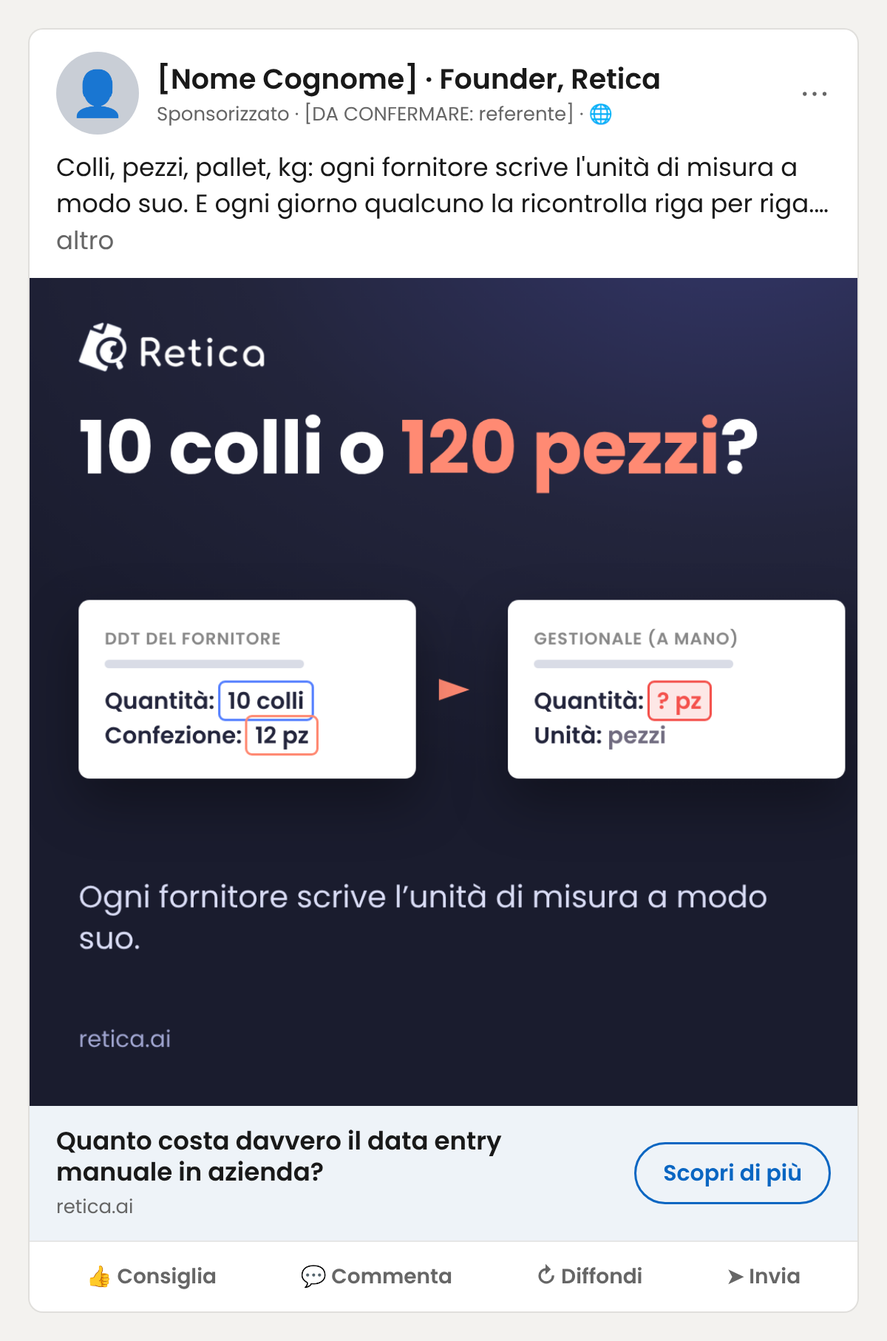
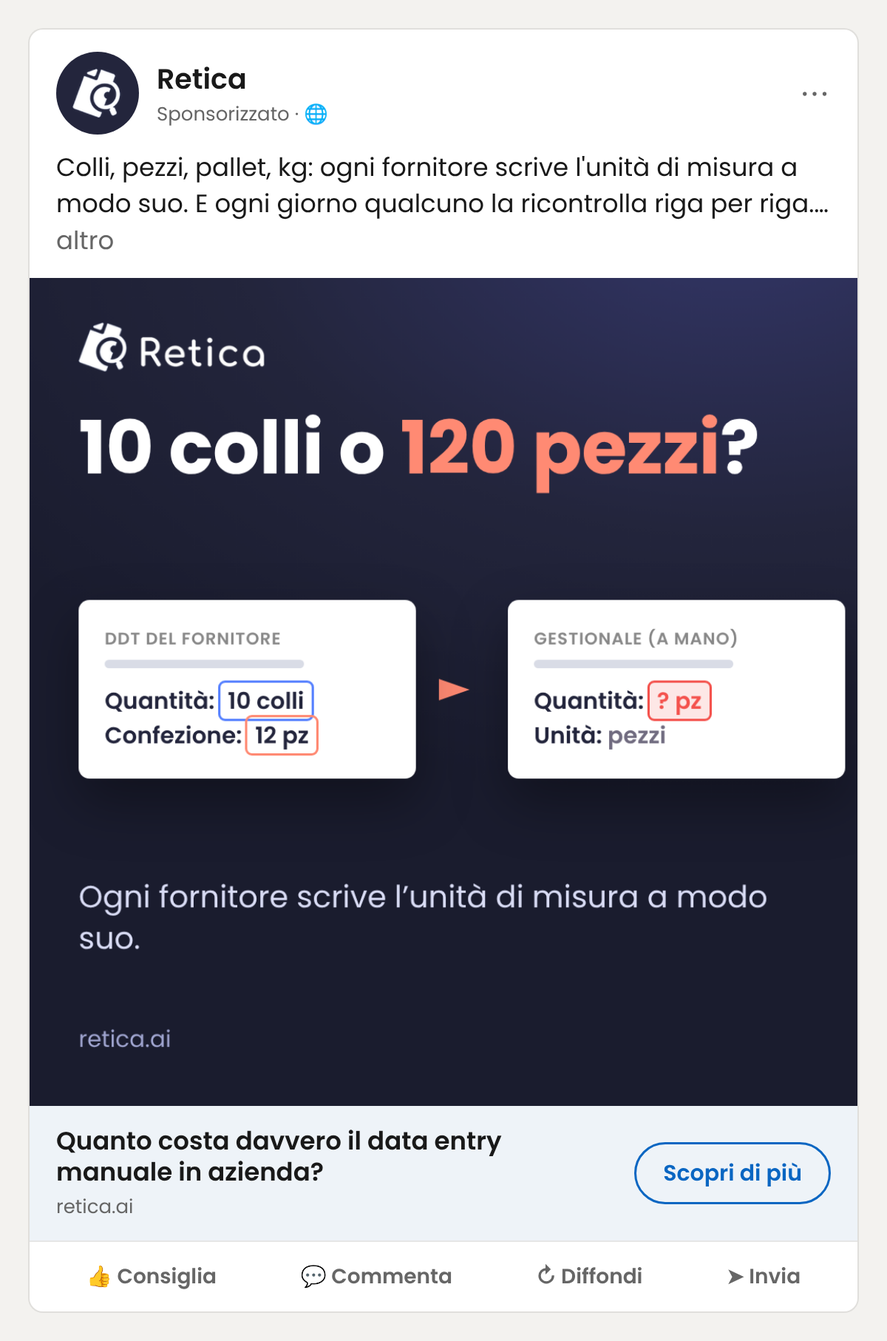
Annunci sempre pubblicati dalla pagina Retica: via il post del fondatore e il Thought Leader Ad
Claude-Session: https://claude.ai/code/session_01A3YkmvjrFpH2K6zMCLryrZ

Changed region(s): [[0.185, 0.0309, 0.74, 0.0926], [0.0617, 0.0309, 0.1542, 0.1235]]

diff --git a/tools/claude-deck/project/slides/strategia.html b/tools/claude-deck/project/slides/strategia.html
@@ -4,10 +4,10 @@
 <h2><b>Concentrati</b> sulla demo.</h2>
 <p class="sub" style="width:1300px; margin-bottom:36px;">Con 2.000 € al mese niente video e niente contenuti da scaricare: si passa dalla fiducia alla richiesta di demo.</p>
 <div class="row" style="gap:28px;">
-<div class="card grow" style="width:520px;"><p class="n">01</p><h3>Farsi notare</h3><p class="p" style="font-size:26px; margin-bottom:22px;">Un post del fondatore e un annuncio sui DDT, per chi lavora in logistica e ancora non ci conosce.</p><div class="row" style="gap:0;"><p class="chip ok">500 € al mese</p></div></div>
+<div class="card grow" style="width:520px;"><p class="n">01</p><h3>Farsi notare</h3><p class="p" style="font-size:26px; margin-bottom:22px;">Due annunci della pagina Retica, sui DDT e sulle unità di misura, per chi lavora in logistica e ancora non ci conosce.</p><div class="row" style="gap:0;"><p class="chip ok">500 € al mese</p></div></div>
 <div class="card grow" style="width:520px;"><p class="n">02</p><h3>Convincere</h3><p class="p" style="font-size:26px; margin-bottom:22px;">Un carosello da leggere nel feed e come Retica si collega al gestionale, per chi ci ha già visti o è venuto sul sito.</p><div class="row" style="gap:0;"><p class="chip ok">300 € al mese</p></div></div>
 <div class="card hl grow" style="width:520px;"><p class="n">03</p><h3>Chiedere la demo</h3><p class="p" style="font-size:26px; margin-bottom:22px;">Annunci con un modulo di due domande e le testimonianze di Carraro e Le Messaggerie Nazionali.</p><div class="row" style="gap:0;"><p class="chip ok">1.200 € al mese</p></div></div>
 </div>
 <p class="fn">Ripartizione: 25% notorietà, 15% considerazione, 60% richiesta di demo. Stima Propaganda Adv</p>
-<aside>Con un budget di 2.000 euro al mese si concentra tutto: un solo pubblico (logistica), pochi annunci, nessun video e nessun contenuto da scaricare. Il 60 per cento va dove nasce la richiesta di demo. Il 25 per cento serve a farsi notare con un post del fondatore (i Thought Leader Ads hanno un costo per clic molto più basso degli altri formati secondo ZenABM) e un annuncio sui DDT. Il 15 per cento va in retargeting: chi ha già visto un annuncio o è stato sul sito vede un carosello da leggere nel feed e l'annuncio sull'integrazione con il gestionale, senza scaricare nulla. I pubblici caldi all'inizio sono piccoli: LinkedIn richiede almeno 300 persone per usarli, quindi il retargeting parte solo quando ci sono. Il 2.000 va confermato: al mese o in totale?</aside>
+<aside>Con un budget di 2.000 euro al mese si concentra tutto: un solo pubblico (logistica), pochi annunci, nessun video e nessun contenuto da scaricare. Il 60 per cento va dove nasce la richiesta di demo. Il 25 per cento serve a farsi notare con due annunci pubblicati sempre dalla pagina LinkedIn di Retica, uno sui DDT e uno sulle unità di misura. Il 15 per cento va in retargeting: chi ha già visto un annuncio o è stato sul sito vede un carosello da leggere nel feed e l'annuncio sull'integrazione con il gestionale, senza scaricare nulla. I pubblici caldi all'inizio sono piccoli: LinkedIn richiede almeno 300 persone per usarli, quindi il retargeting parte solo quando ci sono. Il 2.000 va confermato: al mese o in totale?</aside>
 </section>

diff --git a/tools/mockup/html/A02_feed.html b/tools/mockup/html/A02_feed.html
@@ -30,7 +30,7 @@ body{font-family:P,sans-serif;color:#fff;-webkit-font-smoothing:antialiased}
 .dots{display:flex;gap:10px}.dots i{width:14px;height:14px;border-radius:50%;background:var(--coral)}
 body{background:#F3F2EF;color:#191919}</style></head><body><div style="width:1200px;padding:40px;background:#F3F2EF">
   <div style="width:1120px;background:#fff;border-radius:18px;overflow:hidden;box-shadow:0 0 0 2px #E0DFDC">
-   <div style="display:flex;align-items:center;gap:24px;padding:30px 36px 20px"><div style="width:112px;height:112px;border-radius:50%;background:#C9CED6;display:flex;align-items:center;justify-content:center;font-size:60px;color:#fff">👤</div><div style="flex:1"><div style="font-size:38px;font-weight:600">[Nome Cognome] · Founder, Retica</div><div style="font-size:26px;color:#666">Sponsorizzato · [DA CONFERMARE: referente] · 🌐</div></div><div style="font-size:44px;color:#666;letter-spacing:4px">···</div></div>
+   <div style="display:flex;align-items:center;gap:24px;padding:30px 36px 20px"><img src="file:///home/user/outputclaude/assets/retica/avatar_retica_derivato.png" style="width:112px;height:112px;border-radius:50%"><div style="flex:1"><div style="font-size:38px;font-weight:600">Retica</div><div style="font-size:26px;color:#666">Sponsorizzato · 🌐</div></div><div style="font-size:44px;color:#666;letter-spacing:4px">···</div></div>
    <div style="padding:0 36px 26px;font-size:34px;line-height:1.45">Colli, pezzi, pallet, kg: ogni fornitore scrive l'unità di misura a modo suo. E ogni giorno qualcuno la ricontrolla riga per riga.… <span style="color:#666">altro</span></div>
    <img src="file:///home/user/outputclaude/output/mockup/A02_quote_1x1.png" style="display:block;width:1120px;height:1120px"><div style="background:#EEF3F8;padding:26px 36px;display:flex;align-items:center;justify-content:space-between;gap:24px"><div><div style="font-size:34px;font-weight:600;color:#191919;line-height:1.25;max-width:700px">Quanto costa davvero il data entry manuale in azienda?</div><div style="font-size:26px;color:#666;margin-top:6px">retica.ai</div></div><div style="border:3px solid #0A66C2;color:#0A66C2;border-radius:999px;padding:16px 36px;font-size:30px;font-weight:600;white-space:nowrap">Scopri di più</div></div>
    <div style="display:flex;justify-content:space-around;padding:26px 20px;font-size:28px;color:#666;font-weight:600;border-top:2px solid #E6E6E6"><span>👍 Consiglia</span><span>💬 Commenta</span><span>↻ Diffondi</span><span>➤ Invia</span></div>

diff --git a/tools/claude-deck/project/slides/roadmap.html b/tools/claude-deck/project/slides/roadmap.html
@@ -7,7 +7,7 @@
 <div class="col grow" style="gap:32px; width:1160px;">
 <div class="row" style="gap:32px;">
 <div class="card grow" style="width:564px; padding:32px 36px;"><p class="lab">SETTIMANE 1–2</p><h3 style="font-size:34px; margin-bottom:8px;">Prepariamo tutto</h3><p class="p" style="font-size:26px;">Tracciamento, pubblici, moduli, CRM e pagina sul sito.</p></div>
-<div class="card grow" style="width:564px; padding:32px 36px;"><p class="lab">SETTIMANE 3–4</p><h3 style="font-size:34px; margin-bottom:8px;">Partiamo</h3><p class="p" style="font-size:26px;">Post del fondatore e annuncio sui DDT, poi la richiesta di demo.</p></div>
+<div class="card grow" style="width:564px; padding:32px 36px;"><p class="lab">SETTIMANE 3–4</p><h3 style="font-size:34px; margin-bottom:8px;">Partiamo</h3><p class="p" style="font-size:26px;">Due annunci di notorietà, poi la richiesta di demo.</p></div>
 </div>
 <div class="row" style="gap:32px;">
 <div class="card grow" style="width:564px; padding:32px 36px;"><p class="lab">SETTIMANE 5–8</p><h3 style="font-size:34px; margin-bottom:8px;">Rinforziamo</h3><p class="p" style="font-size:26px;">Retargeting per chi ci ha già visti. Due messaggi a confronto.</p></div>
@@ -16,5 +16,5 @@
 </div>
 </div>
 <p class="fn">I tempi dipendono da accessi e materiali di Retica</p>
-<aside>Le prime due settimane servono a preparare: codice di tracciamento di LinkedIn sul sito, pubblici, moduli di contatto e collegamento al CRM. Poi si parte con il post del fondatore e l'annuncio sui DDT, insieme alla richiesta di demo. Dalla quinta settimana, quando i pubblici sono abbastanza grandi, si attiva il retargeting per chi ci ha già visti e si mettono a confronto due messaggi alla volta. Dalla nona si sposta il budget dove arrivano le demo e si valuta se ha senso il video. Report mensile con il costo per demo.</aside>
+<aside>Le prime due settimane servono a preparare: codice di tracciamento di LinkedIn sul sito, pubblici, moduli di contatto e collegamento al CRM. Poi si parte con i due annunci di notorietà (DDT e unità di misura), insieme alla richiesta di demo. Dalla quinta settimana, quando i pubblici sono abbastanza grandi, si attiva il retargeting per chi ci ha già visti e si mettono a confronto due messaggi alla volta. Dalla nona si sposta il budget dove arrivano le demo e si valuta se ha senso il video. Report mensile con il costo per demo.</aside>
 </section>

diff --git a/tools/claude-deck/project/slides/ads-notare.html b/tools/claude-deck/project/slides/ads-notare.html
@@ -4,12 +4,12 @@
 <h2 style="font-size:80px;"><b>Prima</b> ci notano.</h2>
 <div class="row" style="gap:40px;">
 <img src="/_blob/770445a9c08d51132e218f9824270999" alt="Annuncio sui DDT in cornice LinkedIn" style="width:352px; height:600px; object-fit:contain;">
-<img src="/_blob/a34a728823aabbcc833e8021171f533b" alt="Post del fondatore sulle unità di misura in cornice LinkedIn" style="width:397px; height:600px; object-fit:contain;">
+<img src="/_blob/5e99c88534d3d6f7dce98179474eb84b" alt="Annuncio di Retica sulle unità di misura in cornice LinkedIn" style="width:397px; height:600px; object-fit:contain;">
 <div class="col grow" style="gap:30px; width:800px; padding-top:20px;">
 <div class="card"><p class="lab">ANNUNCIO · IMMAGINE</p><p class="t1" style="font-size:34px; font-weight:600; line-height:1.3;">«Quante righe di DDT ricopia il tuo team ogni giorno?»</p></div>
-<div class="card"><p class="lab">POST DEL FONDATORE</p><p class="t1" style="font-size:34px; font-weight:600; line-height:1.3;">«10 colli o 120 pezzi? Ogni fornitore scrive l’unità di misura a modo suo.»</p></div>
+<div class="card"><p class="lab">ANNUNCIO · UNITÀ DI MISURA</p><p class="t1" style="font-size:34px; font-weight:600; line-height:1.3;">«10 colli o 120 pezzi? Ogni fornitore scrive l’unità di misura a modo suo.»</p></div>
 <p class="p">Parliamo del problema, non del prodotto.</p>
 </div>
 </div>
-<aside>Primo gruppo: ci fanno notare. Un annuncio a immagine parte dalla domanda sulle righe di DDT (niente video, per ora). Un post a nome di un fondatore o referente di Retica parla del problema delle unità di misura. Sono messaggi che parlano del problema, non del prodotto. Il post richiede una persona reale (da confermare) e il suo consenso. L'esempio 10 colli da 12 pezzi è solo un calcolo illustrativo.</aside>
+<aside>Primo gruppo: ci fanno notare. Due annunci, entrambi pubblicati dalla pagina LinkedIn di Retica: uno parte dalla domanda sulle righe di DDT, l'altro dal problema delle unità di misura (niente video, per ora). Sono messaggi che parlano del problema, non del prodotto. L'esempio 10 colli da 12 pezzi è solo un calcolo illustrativo.</</aside>
 </section>

diff --git a/tools/claude-deck/project/slides/piano.html b/tools/claude-deck/project/slides/piano.html
@@ -4,9 +4,9 @@
 <h2><b>Tre mosse,</b> una demo.</h2>
 <p class="sub" style="width:1200px; margin-bottom:48px;">Accompagniamo chi lavora in logistica dal primo sguardo fino alla richiesta di demo.</p>
 <div class="row">
-<div class="card grow"><p class="n">01</p><h3>Ci notano</h3><p class="p">Un post del fondatore e un annuncio parlano del loro problema di tutti i giorni: riscrivere i DDT a mano.</p></div>
+<div class="card grow"><p class="n">01</p><h3>Ci notano</h3><p class="p">Due annunci di Retica parlano del loro problema di tutti i giorni: riscrivere i DDT a mano.</p></div>
 <div class="card grow"><p class="n">02</p><h3>Ci contattano</h3><p class="p">Proponiamo di risolvere il loro problema in modo semplice</p></div>
 <div class="card grow"><p class="n">03</p><h3>Ci chiamano</h3><p class="p">Un modulo di due domande, una demo prenotata e una risposta entro 24 ore.</p></div>
 </div>
-<aside>Il piano in tre mosse. Prima ci notano: un post del fondatore e un annuncio che parlano del loro problema, non del prodotto. Poi proponiamo di risolverlo in modo semplice, con casi reali di clienti. Infine chiedono la demo. Niente video e niente contenuti da scaricare: con 2.000 euro al mese si va dritti alla fiducia e alla richiesta di demo.</aside>
+<aside>Il piano in tre mosse. Prima ci notano: due annunci pubblicati da Retica che parlano del loro problema, non del prodotto. Poi proponiamo di risolverlo in modo semplice, con casi reali di clienti. Infine chiedono la demo. Niente video e niente contenuti da scaricare: con 2.000 euro al mese si va dritti alla fiducia e alla richiesta di demo.</aside>
 </section>

diff --git a/tools/claude-deck/project/slides/servono.html b/tools/claude-deck/project/slides/servono.html
@@ -3,7 +3,7 @@
 <div class="kick"><x-shape kind="rect" style="width:56px; height:4px; background:#233DFF;"></x-shape><p>10 · COSA CI SERVE</p></div>
 <h2 style="font-size:80px;"><b>Sei cose</b> da Retica per partire.</h2>
 <div class="row" style="gap:28px; margin-bottom:28px;">
-<div class="card grow" style="width:520px;"><p class="n">01</p><p class="t1" style="font-size:30px; font-weight:600; line-height:1.3;">Chi firma il post del fondatore, e il suo ok</p></div>
+<div class="card grow" style="width:520px;"><p class="n">01</p><p class="t1" style="font-size:30px; font-weight:600; line-height:1.3;">Chi approva testi e immagini degli annunci di Retica</p></div>
 <div class="card grow" style="width:520px;"><p class="n">02</p><p class="t1" style="font-size:30px; font-weight:600; line-height:1.3;">L’accesso a LinkedIn e al vostro CRM</p></div>
 <div class="card grow" style="width:520px;"><p class="n">03</p><p class="t1" style="font-size:30px; font-weight:600; line-height:1.3;">Un sito pulito: via i testi di prova dal menu</p></div>
 </div>

diff --git a/tools/mockup/build_mockups.js b/tools/mockup/build_mockups.js
@@ -163,7 +163,7 @@ function feed(name, adId, imgFile, imgW, imgH, opts = {}) {
   files[name] = { w: W + 80, h: 10, html, full: true };
 }
 feed('A01_feed', 'A01', 'A01_static_4x5.png', 1080, 1350);
-feed('A02_feed', 'A02', 'A02_quote_1x1.png', 1080, 1080, { author: '[Nome Cognome] · Founder, Retica', sub: 'Sponsorizzato · [DA CONFERMARE: referente]', avatarHTML: '<div style="width:112px;height:112px;border-radius:50%;background:#C9CED6;display:flex;align-items:center;justify-content:center;font-size:60px;color:#fff">👤</div>' });
+feed('A02_feed', 'A02', 'A02_quote_1x1.png', 1080, 1080, );
 feed('A04_feed', 'A04', 'A04_listino_1x1.png', 1080, 1080);
 // carosello: 1 card + peek
 {

diff --git a/analysis/make_copy_md.py b/analysis/make_copy_md.py
@@ -3,12 +3,12 @@ sys.path.insert(0,'analysis')
 from ads_data import ADS, LIM, hook
 out=["# Copy annunci LinkedIn — Retica, focus LOGISTICA (proposta, nessuna campagna attiva)\n",
 "Leve del messaggio: **DDT** (righe, codici, quantità), **unità di misura** (colli, pezzi, pallet) e **listini / prezzi**. Target principale: aziende di logistica, trasporti e magazzino.",
-"**Piano da 2.000 €/mese, senza lead magnet (nessun contenuto da scaricare) e senza video.** Il percorso è: farsi notare (post del fondatore, annuncio sui DDT) → convincere (casi reali, carosello da leggere nel feed) → richiesta di demo (Lead Gen Form, messaggio diretto). L'annuncio A03 (guida) è ritirato.",
+"**Piano da 2.000 €/mese, senza lead magnet (nessun contenuto da scaricare) e senza video.** Il percorso è: farsi notare (due annunci dalla pagina Retica: DDT e unità di misura) → convincere (casi reali, carosello da leggere nel feed) → richiesta di demo (Lead Gen Form, messaggio diretto). L'annuncio A03 (guida) è ritirato.",
 "Tutti i testi sono in italiano, con il \"tu\", prima il beneficio. I campi *Intro* e *Headline* usano **solo claim presenti su retica.ai** (verificati il 19/11/2026).",
 "I conteggi tra parentesi sono caratteri, calcolati in codice. Limiti: intro text max 600 (i primi ~150 sono visibili prima di \"…altro\"), headline max 70, descrizione max 100, card carosello max 45; Conversation Ad: messaggio max 500, oggetto max 60.",
 "Segnaposto: `{FirstName}` = nome del destinatario (campo dinamico LinkedIn).\n",
 "> ## Cosa è verificato e cosa no sulle tre leve\n> - **DDT:** verificato. Pagina retica.ai/logistica; testimonianze Carraro (DDT in SAP), Le Messaggerie Nazionali (spedizioni), Edildelta (DDT fornitori) [VERIFICATO].\n> - **Unità di misura:** Retica estrae \"unità di misura o confezione\" dai listini (articolo del blog) [VERIFICATO]. La **conversione** (es. colli → pezzi) NON è dichiarata sul sito: potrebbe rientrare nel modulo \"Condizioni\" (trasformare i dati nel formato del gestionale) **[DA CONFERMARE]**.\n> - **Verifica prezzi:** l'articolo di Retica sui listini dice che Retica *non sostituisce il gestionale nelle verifiche* e che il confronto dei prezzi resta nell'ERP [VERIFICATO]. Una testimonianza (Gruppo Borghi) cita \"verifiche su prezzi e tempi richiesti\" sugli ordini. Una verifica prezzi fatta da Retica è **[DA CONFERMARE]**.\n> - Per questo le varianti A e B qui sotto non promettono conversione né verifica. Le versioni più forti stanno nel blocco **\"Solo se Retica conferma\"** di ogni annuncio: **non caricarle finché non c'è la conferma scritta.**\n",
-"> **Prima del caricamento:** UTM, link di destinazione, testimonial con nome/azienda e persona del Thought Leader Ad sono **[DA CONFERMARE]**.\n","---\n"]
+"> **Prima del caricamento:** UTM, link di destinazione, testimonial con nome/azienda sono **[DA CONFERMARE]**.\n","---\n"]
 for a in ADS:
     out.append(f"## {a['id']} · {a['funnel']} · {a['angle']}\n")
     out.append(f"- **Leva:** {a['leva']}\n- **Formato:** {a['fmt']}\n- **Obiettivo Campaign Manager:** {a['obj']}\n- **CTA LinkedIn:** {a['cta']}\n- **Destinazione:** {a['dest']}\n- **Creatività:** {a['cover']} (file in `output/mockup/{a['id']}_*`)\n")

diff --git a/analysis/ads_data.py b/analysis/ads_data.py
@@ -18,7 +18,7 @@ ADS = [
   cover="Domanda a tutto schermo + pila di DDT",
   notes="Sostituisce il video del primo piano: con 2.000 €/mese non si investe in video all'inizio (il video resta una fase 2). La pagina retica.ai/logistica esiste già.",
   se_confermato=None),
- dict(id="A02", funnel="TOFU", leva="Unità di misura", fmt="Thought Leader Ad (post del founder/referente Retica)", obj="Visualizzazioni sito / Engagement", angle="Unità di misura: colli, pezzi, pallet",
+ dict(id="A02", funnel="TOFU", leva="Unità di misura", fmt="Immagine singola (post sponsorizzato dalla pagina Retica)", obj="Visualizzazioni sito / Engagement", angle="Unità di misura: colli, pezzi, pallet",
   intro_A="Colli, pezzi, pallet, kg: ogni fornitore scrive l'unità di misura a modo suo. E ogni giorno qualcuno la ricontrolla riga per riga.",
   intro_B="Nel DDT c'è scritto 10 colli da 12 pezzi, il gestionale vuole i pezzi. Basta un errore di conto e il magazzino non torna. Come lo evitiamo?",
   headline_A="Quanto costa davvero il data entry manuale in azienda?",
@@ -26,7 +26,7 @@ ADS = [
   desc="Approfondimento dal blog di Retica.",
   cta="Scopri di più", dest="Blog Retica: 'Quanto costa davvero il data entry manuale' (A) · articolo sui listini fornitori (B), entrambi esistenti",
   cover="Quote card: 10 colli o 120 pezzi?",
-  notes="Richiede un profilo persona (founder/referente) e il consenso a usarlo come Thought Leader Ad [DA CONFERMARE]. L'esempio 10×12 è solo aritmetica illustrativa. L'articolo sui listini cita 'unità di misura scritte in modo incoerente' (verificato).",
+  notes="Pubblicato sempre dalla pagina LinkedIn di Retica, non da un profilo personale. L'esempio 10×12 è solo aritmetica illustrativa. L'articolo sui listini cita 'unità di misura scritte in modo incoerente' (verificato).",
   se_confermato=dict(claim="Conversione automatica delle unità di misura (es. colli → pezzi) con le 'Condizioni' di Retica",
     intro="Colli, pezzi, pallet: Retica porta l'unità di misura del DDT in quella che il tuo gestionale si aspetta, con una regola che imposti una volta sola.",
     headline="Dall'unità del DDT a quella del tuo gestionale")),

diff --git a/analysis/budget_model.py b/analysis/budget_model.py
@@ -1,5 +1,5 @@
 """Modello di stima budget/KPI LinkedIn Ads per Retica — 2.000 €/MESE, SENZA LEAD MAGNET e SENZA VIDEO. Tutti i risultati sono [STIMA].
-Percorso: notorietà (solo Thought Leader Ads / post sponsorizzati) -> considerazione (retargeting con prove, verso landing) -> conversione (Lead Gen Form 'Richiedi demo').
+Percorso: notorietà (annunci sponsorizzati dalla pagina Retica) -> considerazione (retargeting con prove, verso landing) -> conversione (Lead Gen Form 'Richiedi demo').
 Nessun contenuto scaricabile: i contatti sono SOLO richieste di demo (da landing o da Lead Gen Form).
 Benchmark (USD) da:
  - ZenABM, "LinkedIn Ads Benchmarks: Real Data from 211 B2B Companies in 2026" (agg. 16/02/2026) https://zenabm.com/blog/linkedin-ads-benchmarks-2026

diff --git a/output/copy_annunci.md b/output/copy_annunci.md
@@ -1,7 +1,7 @@
 # Copy annunci LinkedIn — Retica, focus LOGISTICA (proposta, nessuna campagna attiva)
 
 Leve del messaggio: **DDT** (righe, codici, quantità), **unità di misura** (colli, pezzi, pallet) e **listini / prezzi**. Target principale: aziende di logistica, trasporti e magazzino.
-**Piano da 2.000 €/mese, senza lead magnet (nessun contenuto da scaricare) e senza video.** Il percorso è: farsi notare (post del fondatore, annuncio sui DDT) → convincere (casi reali, carosello da leggere nel feed) → richiesta di demo (Lead Gen Form, messaggio diretto). L'annuncio A03 (guida) è ritirato.
+**Piano da 2.000 €/mese, senza lead magnet (nessun contenuto da scaricare) e senza video.** Il percorso è: farsi notare (due annunci dalla pagina Retica: DDT e unità di misura) → convincere (casi reali, carosello da leggere nel feed) → richiesta di demo (Lead Gen Form, messaggio diretto). L'annuncio A03 (guida) è ritirato.
 Tutti i testi sono in italiano, con il "tu", prima il beneficio. I campi *Intro* e *Headline* usano **solo claim presenti su retica.ai** (verificati il 19/11/2026).
 I conteggi tra parentesi sono caratteri, calcolati in codice. Limiti: intro text max 600 (i primi ~150 sono visibili prima di "…altro"), headline max 70, descrizione max 100, card carosello max 45; Conversation Ad: messaggio max 500, oggetto max 60.
 Segnaposto: `{FirstName}` = nome del destinatario (campo dinamico LinkedIn).
@@ -12,7 +12,7 @@ Segnaposto: `{FirstName}` = nome del destinatario (campo dinamico LinkedIn).
 > - **Verifica prezzi:** l'articolo di Retica sui listini dice che Retica *non sostituisce il gestionale nelle verifiche* e che il confronto dei prezzi resta nell'ERP [VERIFICATO]. Una testimonianza (Gruppo Borghi) cita "verifiche su prezzi e tempi richiesti" sugli ordini. Una verifica prezzi fatta da Retica è **[DA CONFERMARE]**.
 > - Per questo le varianti A e B qui sotto non promettono conversione né verifica. Le versioni più forti stanno nel blocco **"Solo se Retica conferma"** di ogni annuncio: **non caricarle finché non c'è la conferma scritta.**
 
-> **Prima del caricamento:** UTM, link di destinazione, testimonial con nome/azienda e persona del Thought Leader Ad sono **[DA CONFERMARE]**.
+> **Prima del caricamento:** UTM, link di destinazione, testimonial con nome/azienda sono **[DA CONFERMARE]**.
 
 ---
 
@@ -52,7 +52,7 @@ Segnaposto: `{FirstName}` = nome del destinatario (campo dinamico LinkedIn).
 ## A02 · TOFU · Unità di misura: colli, pezzi, pallet
 
 - **Leva:** Unità di misura
-- **Formato:** Thought Leader Ad (post del founder/referente Retica)
+- **Formato:** Immagine singola (post sponsorizzato dalla pagina Retica)
 - **Obiettivo Campaign Manager:** Visualizzazioni sito / Engagement
 - **CTA LinkedIn:** Scopri di più
 - **Destinazione:** Blog Retica: 'Quanto costa davvero il data entry manuale' (A) · articolo sui listini fornitori (B), entrambi esistenti
@@ -85,7 +85,7 @@ Segnaposto: `{FirstName}` = nome del destinatario (campo dinamico LinkedIn).
 
 **Headline** (46): Dall'unità del DDT a quella del tuo gestionale
 
-**Note:** Richiede un profilo persona (founder/referente) e il consenso a usarlo come Thought Leader Ad [DA CONFERMARE]. L'esempio 10×12 è solo aritmetica illustrativa. L'articolo sui listini cita 'unità di misura scritte in modo incoerente' (verificato).
+**Note:** Pubblicato sempre dalla pagina LinkedIn di Retica, non da un profilo personale. L'esempio 10×12 è solo aritmetica illustrativa. L'articolo sui listini cita 'unità di misura scritte in modo incoerente' (verificato).
 
 ---
 

diff --git a/output/note_da_confermare.md b/output/note_da_confermare.md
@@ -6,7 +6,7 @@ Elenco delle domande aperte. Ogni voce è marcata **[DA CONFERMARE]** anche nell
 1. **Video:** non servono per la partenza (con 2.000 € al mese non si investe in video nella fase iniziale). Restano una **fase 2**, da valutare dopo i primi risultati: in quel caso servono file originali, durata, formato, audio, sottotitoli e diritti d'uso del video YouTube "Scopri Retica!".
 2. **Accesso a Campaign Manager** (account inserzionista) e alla **Pagina LinkedIn di Retica** (ruolo Super Admin / inserzionista).
 3. **Logo, font e linee guida brand** ufficiali (oggi ricavati dal sito: navy #23253C, corallo #FF8A73, blu #5580FF, viola #58468C, Poppins).
-4. **Persona per i Thought Leader Ads** (founder o referente) e consenso a usarne il profilo.
+4. **Pubblicazione:** tutti gli annunci escono dalla pagina LinkedIn di Retica, nessun profilo personale (deciso).
 5. **Testimonianze:** consenso scritto a usare nome, ruolo e azienda nelle inserzioni (es. Andrea Michelin, Gruppo Borghi Spa) e a citare i numeri (2.500 ordini/mese).
 6. **Badge Capterra / GetApp:** autorizzazione e linee guida d'uso nelle creatività (visibili sul sito, non usati nei mockup).
 
@@ -50,5 +50,5 @@ Elenco delle domande aperte. Ogni voce è marcata **[DA CONFERMARE]** anche nell
 31. **Esempi reali:** 2–3 DDT e un listino fornitore (anonimizzati) per la landing e le demo; unità di misura più frequenti dei clienti logistici (colli, pallet, kg, m³…).
 32. **Testimonianze logistiche:** consenso a usare nome e azienda di Carraro (Dario Mazzocca, DDT in SAP), Le Messaggerie Nazionali (Federico Gatti) ed eventualmente Edildelta (DDT fornitori con molte righe).
 33. **Clienti Retica nella logistica:** quanti dei 124 clienti attivi sono logistica/trasporti/magazzino, e quali WMS/ERP usano: serve per validare il target e scegliere gli annunci.
-34. **Persona per i Thought Leader Ads:** chi firma il post del fondatore/referente e il suo consenso (con 2.000 € al mese i Thought Leader Ads sono il formato di notorietà principale).
+34. **Approvazione:** chi in Retica approva testi e immagini degli annunci. Gli annunci escono sempre dalla pagina Retica (deciso).
 35. **Documenti di logistica oltre al DDT** (la pagina retica.ai/logistica cita anche certificati di origine e fatture commerciali; CMR e packing list non sono citati): quali sono supportati e vale la pena mostrare.
